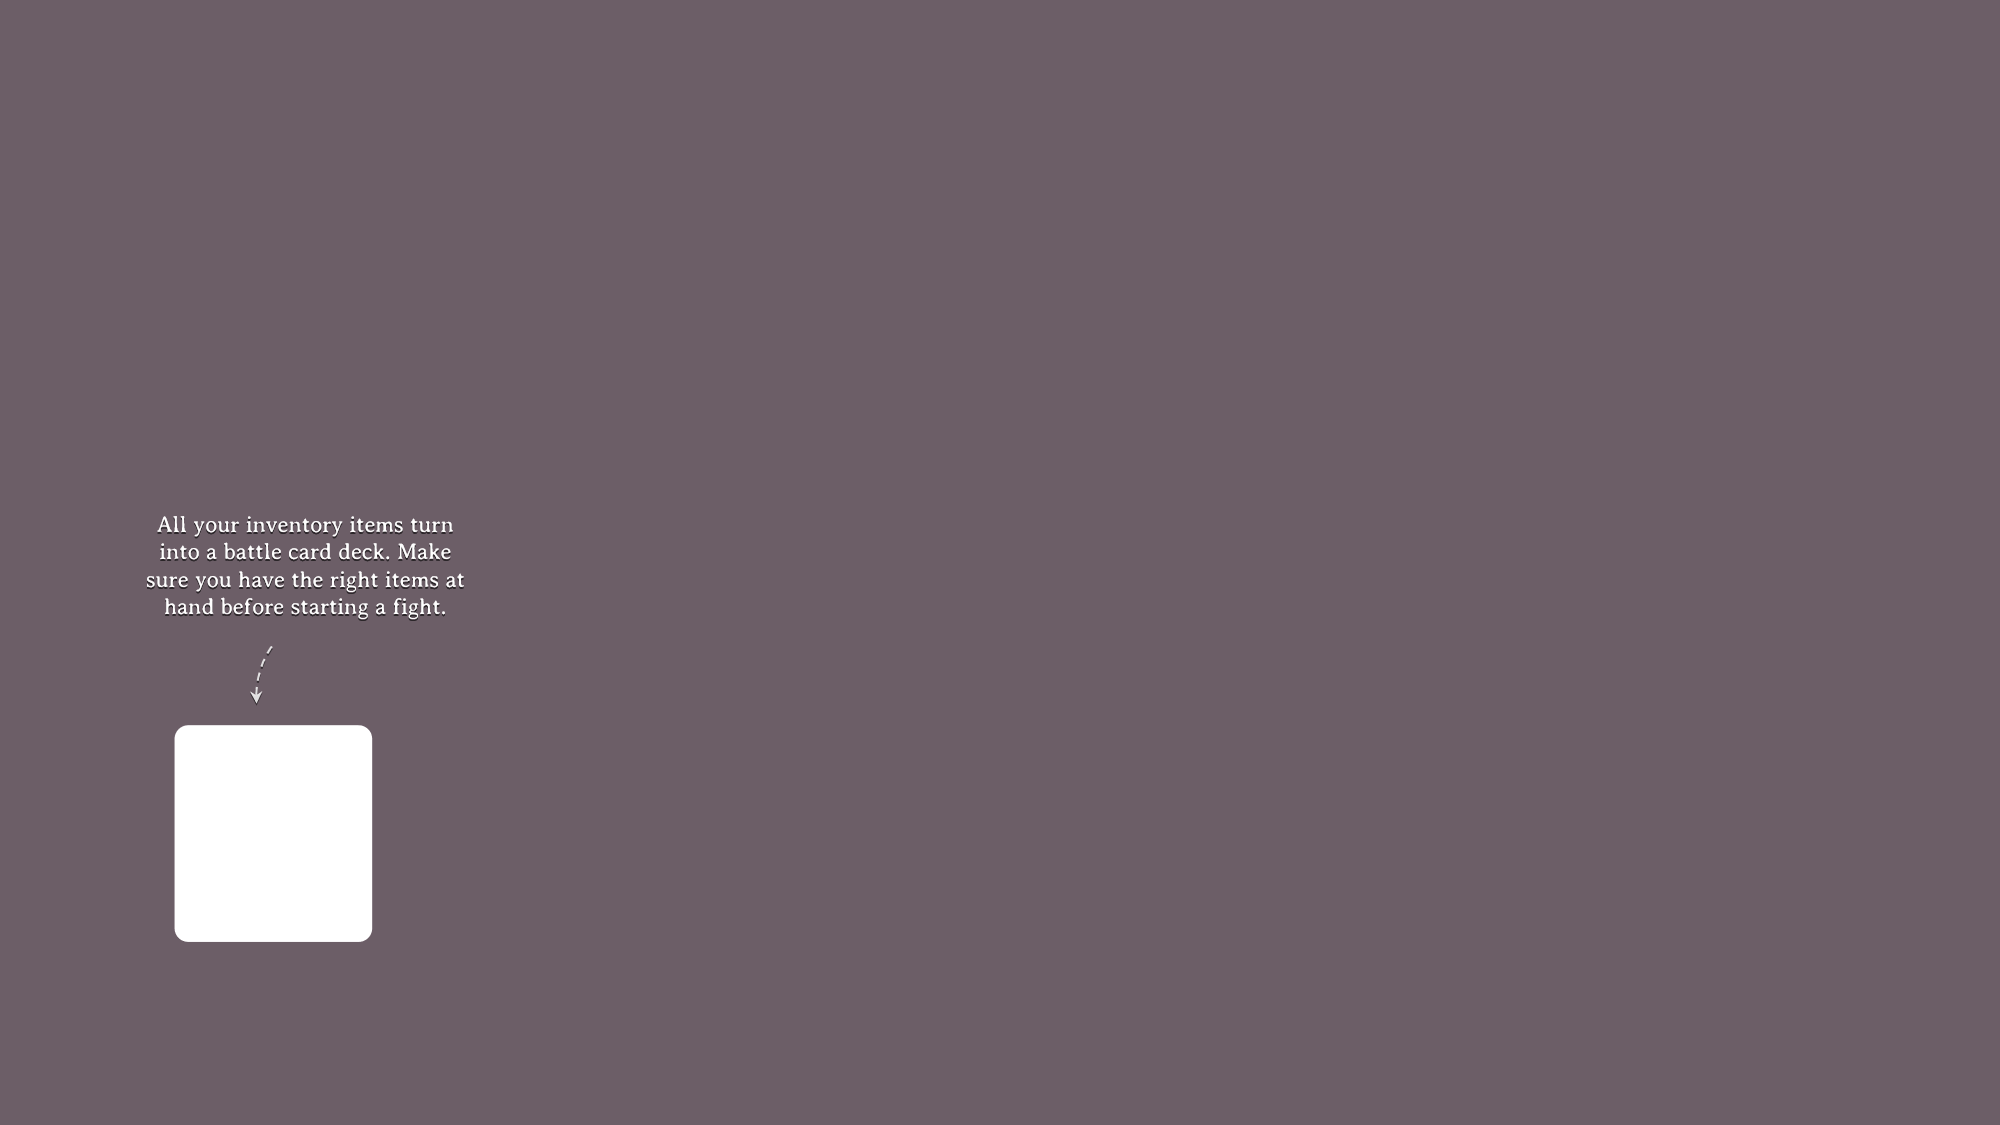
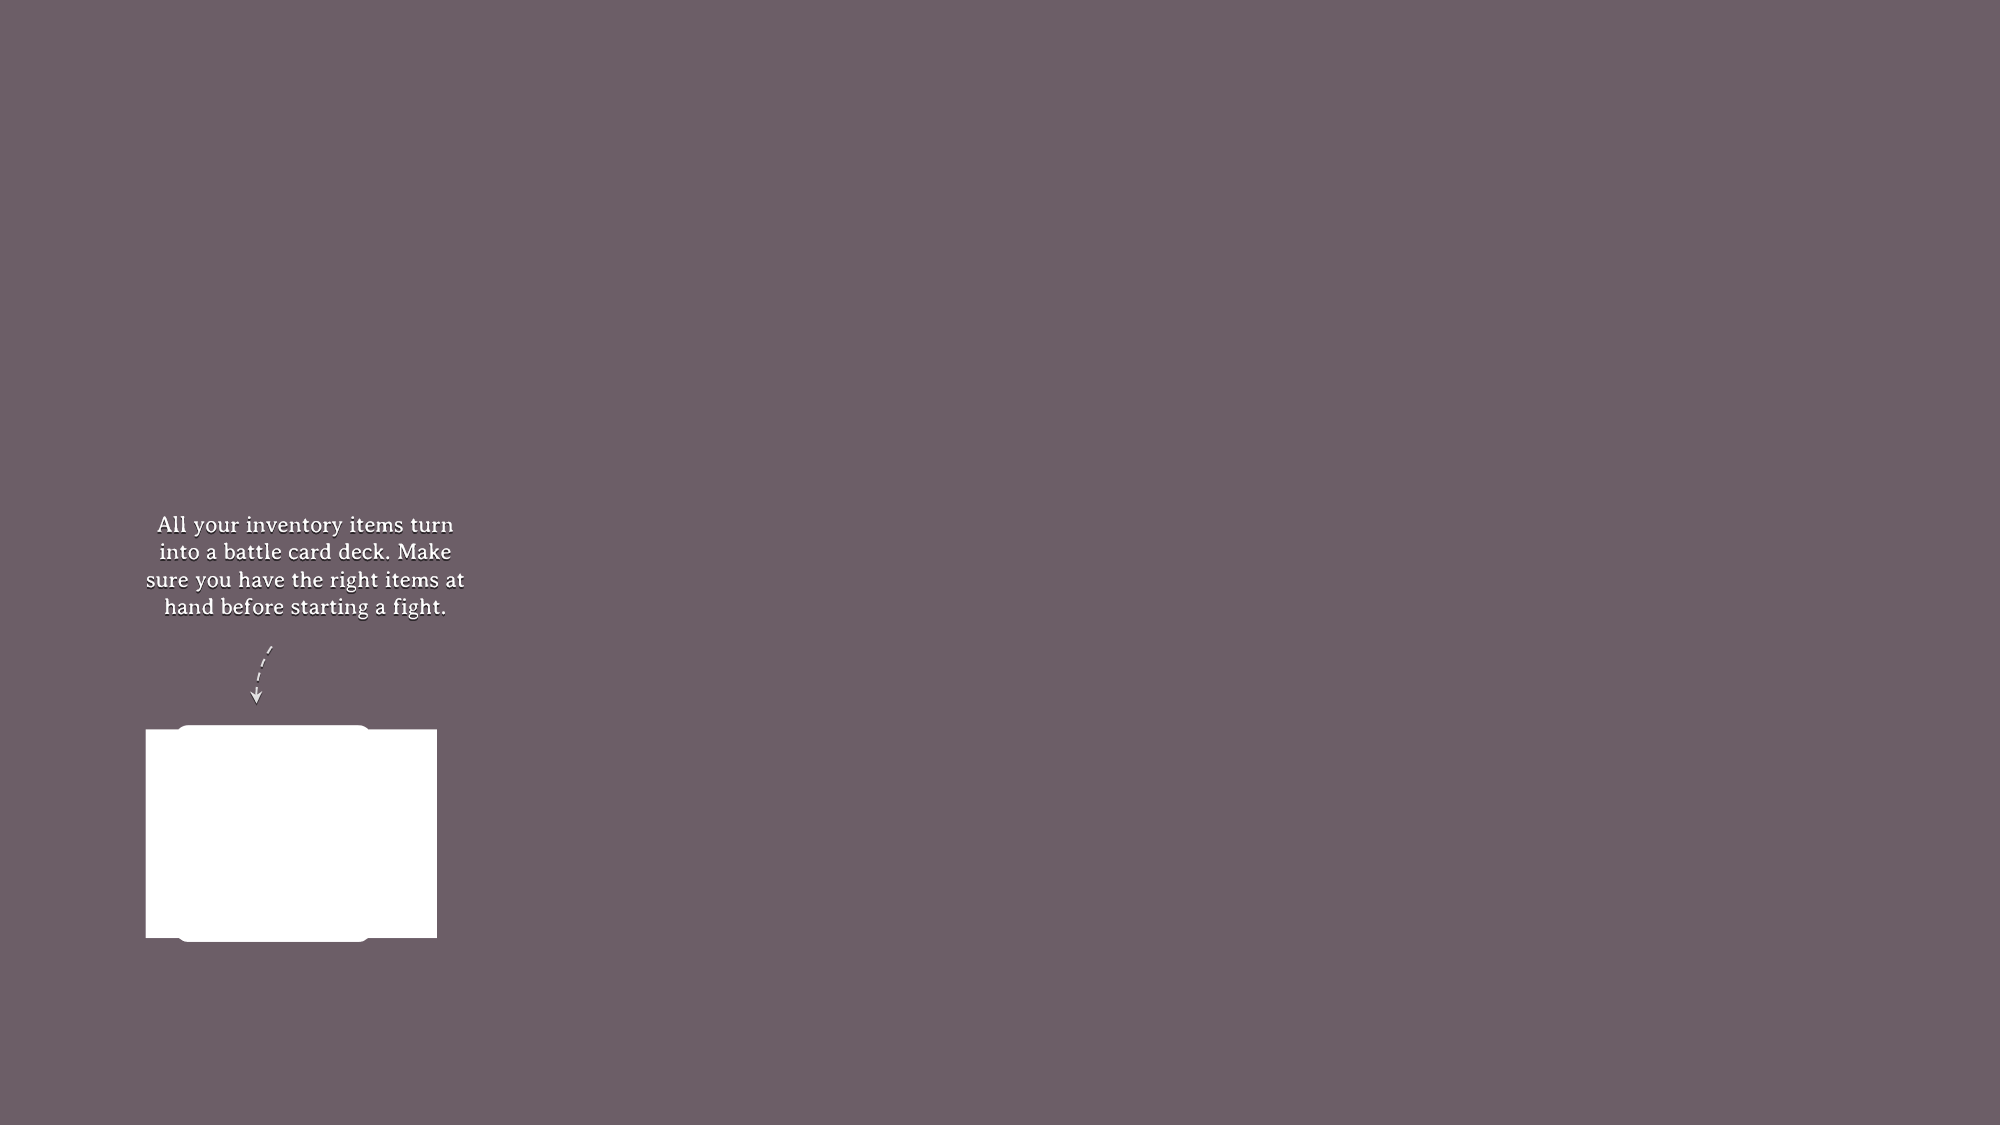
feat: add step-4a tutorial image and update preloading logic

Changed region(s): [[0.186, 0.6222, 0.217, 0.84], [0.062, 0.6533, 0.093, 0.84]]

diff --git a/js/tutorial.js b/js/tutorial.js
@@ -4,6 +4,7 @@ import Items from './items.js';
 import Audio from './audio.js';
 import TimingUtils from './utils/timing-utils.js';
 import { TutorialManager, CardsManager } from './core/index.js';
+import { CardsDefinitions } from '../data/index.js';
 
 let battleTutorialStep = 0;
 
@@ -53,6 +54,7 @@ export default {
         <img src="./img/tutorial/step-2.png" class="tutorial-step tutorial-step-2">
         <img src="./img/tutorial/step-3.png" class="tutorial-step tutorial-step-3">
         <img src="./img/tutorial/step-4.png" class="tutorial-step tutorial-step-4">
+        <img src="./img/tutorial/step-4a.png" class="tutorial-step tutorial-step-4a">
         <img src="./img/tutorial/step-5.png" class="tutorial-step tutorial-step-5">
         <img src="./img/tutorial/general-notes.png" class="tutorial-notes-headline">
         <img src="./img/tutorial/note-1.png" class="tutorial-notes tutorial-note-1">
@@ -85,13 +87,18 @@ export default {
         break;
       case 3:
         document.querySelector('.tutorial-step-3').classList.remove('is--active');
-        document.querySelector('.tutorial-step-4').classList.add('is--active');
+        if (CardsDefinitions.opponentDeck.length % 2 === 0) {
+          document.querySelector('.tutorial-step-4a').classList.add('is--active');
+        } else {
+          document.querySelector('.tutorial-step-4').classList.add('is--active');
+        }
         document.querySelector('.hint-continue').classList.remove('to--left');
         Audio.sfx('shuffle-paper');
         document.querySelector('.tutorial-note-3').classList.remove('is--out');
         break;
       case 4:
         document.querySelector('.tutorial-step-4').classList.remove('is--active');
+        document.querySelector('.tutorial-step-4a').classList.remove('is--active');
         document.querySelector('.tutorial-step-5').classList.add('is--active');
         Audio.sfx('shuffle-paper');
         document.querySelector('.tutorial-note-4').classList.remove('is--out');

diff --git a/js/preloading.js b/js/preloading.js
@@ -112,8 +112,9 @@ export default {
     loader.load(6, 'step-2.png');
     loader.load(7, 'step-3.png');
     loader.load(8, 'step-4.png');
-    loader.load(9, 'step-5.png');
-    loader.load(10, 'general-notes.png');
-    loader.load(11, 'letter-blank.png');
+    loader.load(9, 'step-4a.png');
+    loader.load(10, 'step-5.png');
+    loader.load(11, 'general-notes.png');
+    loader.load(12, 'letter-blank.png');
   },
 };
